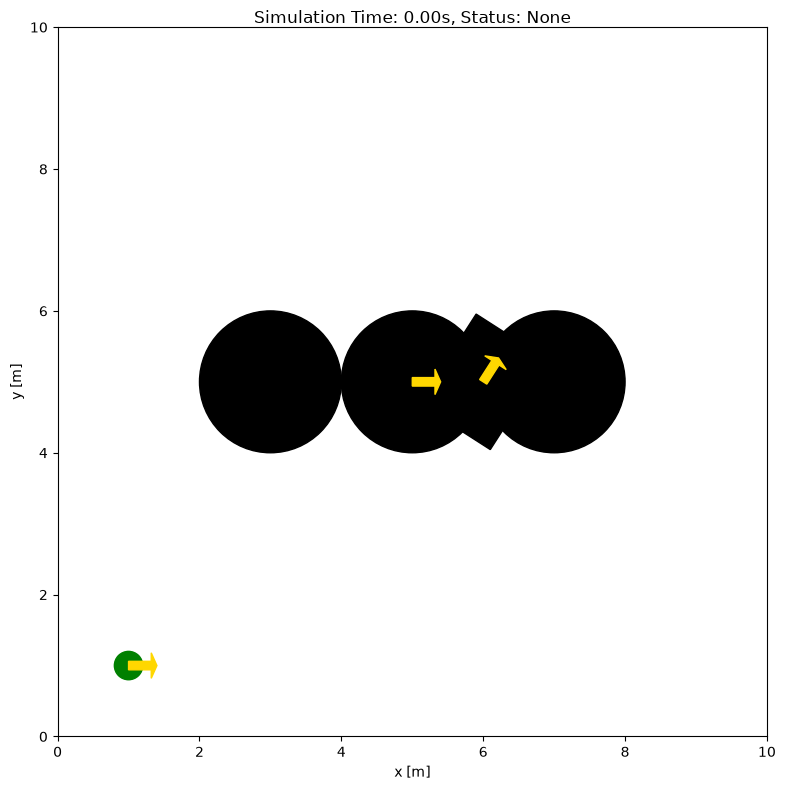
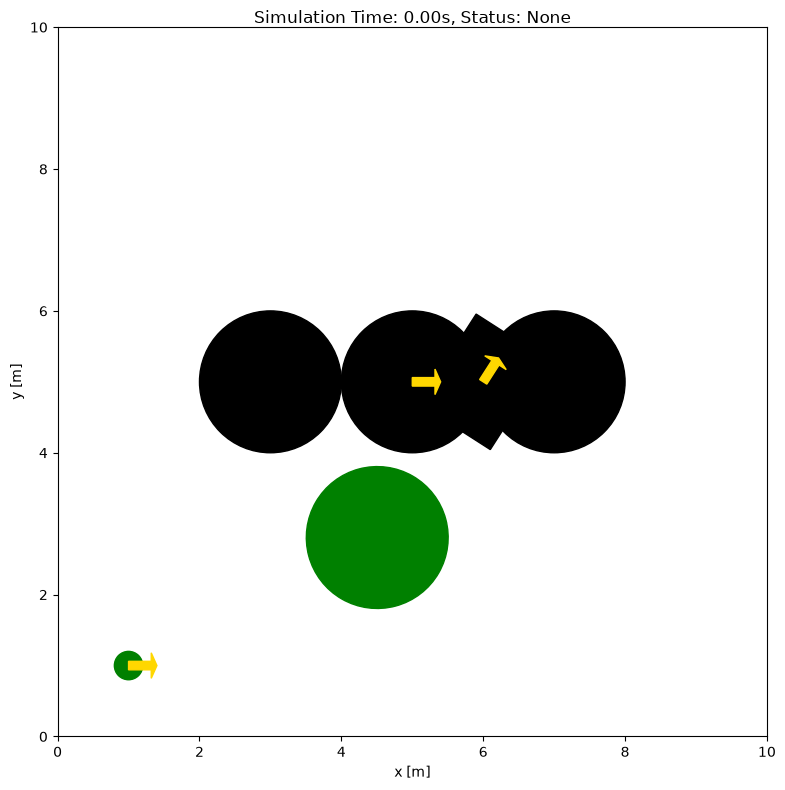
fix: C++ A* heuristic scaling and no-grid acceleration
- Fix C++ heuristic unit inconsistency: multiply h by resolution
  so it matches g-cost (both now in metres). Without this, the
  heuristic overestimated by 1/resolution factor, producing
  suboptimal paths.

- Support no-grid maps via build_grid: when env_map.grid is None,
  sample all cells once in __init__ using Shapely to build an
  occupancy grid, then use C++ A* for all subsequent plan() calls.
  Amortized grid building cost ≈ one Python A* search; subsequent
  searches are ~1 ms each via C++.

- Add start/goal blocked check to Python path for parity with C++
  (returns empty path instead of failing mid-search).

Changed region(s): [[0.3669, 0.5772, 0.5809, 0.7899]]

diff --git a/irsim/lib/path_planners/a_star.py b/irsim/lib/path_planners/a_star.py
@@ -63,18 +63,40 @@ class AStarPlanner:
             self.y_width = round((self.max_y - self.origin_y) / self.resolution)
         self.motion = self.get_motion_model()
 
-        # C++ accelerated A* (if grid map and C++ core available)
+        # C++ accelerated A* — always try to build a C++ planner with a grid
         self._c_planner = None
-        if grid is not None:
-            try:
-                from cpp._core import AStarPlanner as _CppAStar
+        try:
+            from cpp._core import AStarPlanner as _CppAStar
 
-                self._c_planner = _CppAStar()
-                cpp_grid = (np.asarray(grid, dtype=np.float64) > 50).astype(np.uint8)
-                self._c_planner.set_grid(cpp_grid, self.x_width, self.y_width,
-                                         self.resolution)
-            except (ImportError, Exception):
-                pass
+            if grid is None:
+                grid = self._build_grid()
+            cpp_grid = (np.asarray(grid, dtype=np.float64) > 50).astype(np.uint8)
+            self._c_planner = _CppAStar()
+            self._c_planner.set_grid(cpp_grid, self.x_width, self.y_width,
+                                     self.resolution)
+        except (ImportError, Exception):
+            pass
+
+    def _build_grid(self) -> np.ndarray:
+        """Build an occupancy grid by sampling each cell via Shapely collision."""
+        grid = np.zeros((self.x_width, self.y_width), dtype=np.float64)
+        half_w = self.resolution * 0.5
+        shape = {"name": "rectangle", "length": self.resolution,
+                 "width": self.resolution}
+        gf = self._make_geometry_factory(shape)
+        for gi in range(self.x_width):
+            wx = self.origin_x + (gi + 0.5) * self.resolution
+            for gj in range(self.y_width):
+                wy = self.origin_y + (gj + 0.5) * self.resolution
+                geometry = gf.step(np.c_[[wx, wy]])
+                if self._map.is_collision(geometry):
+                    grid[gi, gj] = 100
+        return grid
+
+    @staticmethod
+    def _make_geometry_factory(shape: dict):
+        from irsim.lib.handler.geometry_handler import GeometryFactory
+        return GeometryFactory.create_geometry(**shape)
 
     class Node:
         """Node class"""
@@ -136,6 +158,13 @@ class AStarPlanner:
                 path_2d[:, 0] += self.origin_x
                 path_2d[:, 1] += self.origin_y
                 return path_2d.T
+
+        sx = float(to_numpy(start_pose)[0].item())
+        sy = float(to_numpy(start_pose)[1].item())
+        gx = float(to_numpy(goal_pose)[0].item())
+        gy = float(to_numpy(goal_pose)[1].item())
+        if self.check_node(sx, sy) or self.check_node(gx, gy):
+            return np.array([[], []])
 
         start_node = self.Node(
             self.calc_xy_index(float(to_numpy(start_pose)[0].item()), self.origin_x),

diff --git a/cpp/src/astar.cpp b/cpp/src/astar.cpp
@@ -15,7 +15,7 @@ void AStarPlanner::set_grid(const uint8_t* data, int w, int h, float res) {
 float AStarPlanner::heuristic(int ax, int ay, int bx, int by) const {
     float dx = float(ax - bx);
     float dy = float(ay - by);
-    return std::sqrt(dx * dx + dy * dy);
+    return std::sqrt(dx * dx + dy * dy) * resolution;
 }
 
 std::vector<float> AStarPlanner::plan(float sx, float sy, float gx, float gy) {